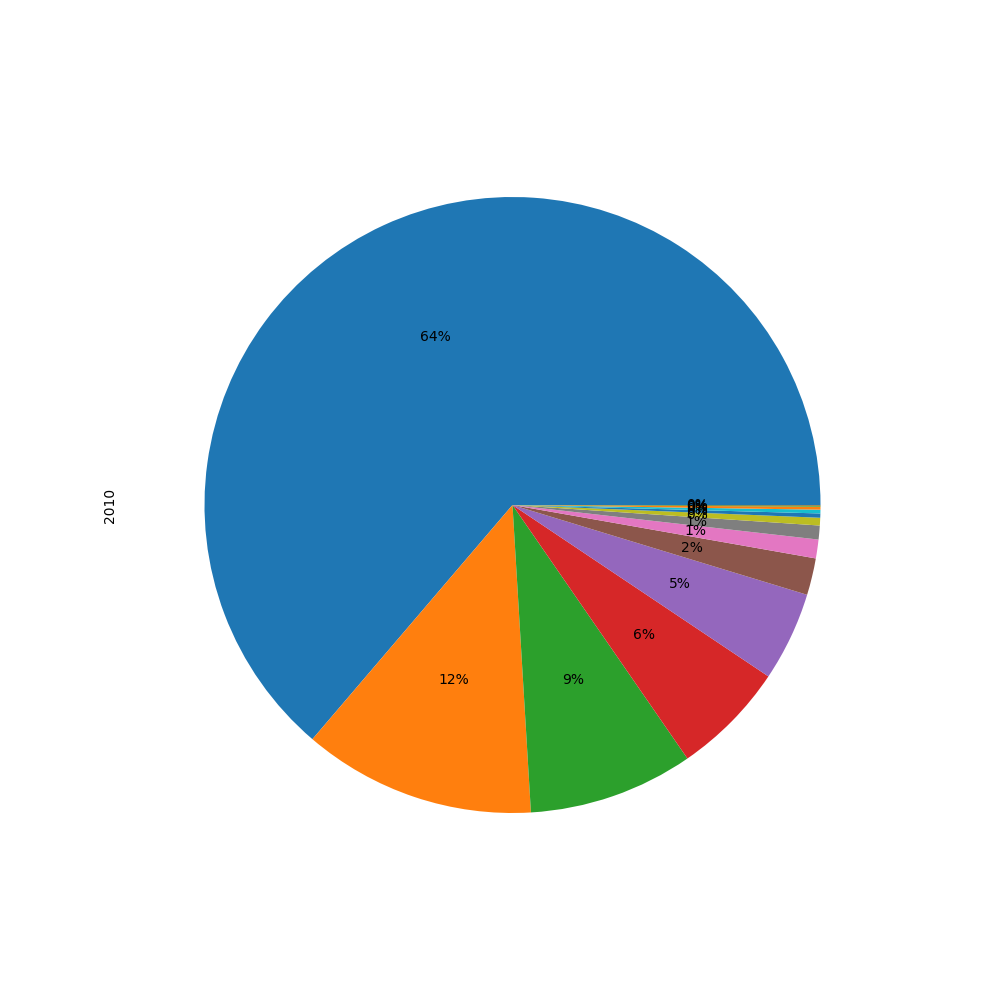
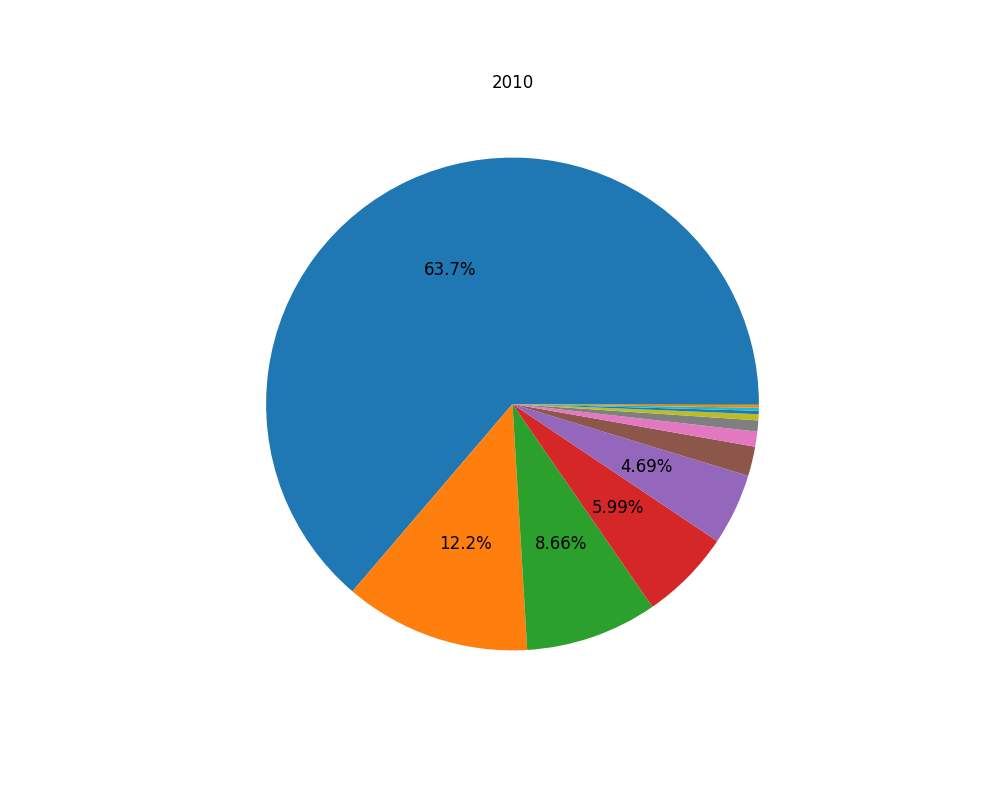
updates to pie chart, legend, updates to code

diff --git a/query_data/byCategory/all-categories/data_vis.py b/query_data/byCategory/all-categories/data_vis.py
@@ -44,6 +44,47 @@ df2 = pd.read_csv(path + "nonhispUS.csv", index_col="Year")[races]
 df1.columns = hisp # Rename columns
 df2.columns = nonhisp # Rename columns
 allCats = df1.join(df2).transpose() # Want Years as columns
+
+# PIE CHARTS
+def autopct(pct):
+    if pct > 10:
+        return f'{pct:.1f}%'
+    elif pct > 2:
+        return f'{pct:.2f}%'
+    else:
+        return ''
+
+# LEGEND
+leg = allCats.plot.pie(y=2000, figsize=(15,6))
+plt.legend(title = 'Key', bbox_to_anchor=(-0.1, 0.8))
+
+# COLOR ORDER TO MATCH LEGEND
+allCats2010 = ['tab:blue','tab:orange','tab:green','tab:red','tab:purple','tab:brown','tab:pink',
+	           'tab:grey','tab:olive','tab:blue','tab:cyan','tab:orange','tab:green','tab:red']
+allCats2020 = ['tab:blue','tab:orange','tab:red','tab:pink','tab:purple','tab:green','tab:brown',
+	           'tab:grey','tab:cyan','tab:blue','tab:olive','tab:orange','tab:green','tab:red']
+               
+# SET PLOT SIZE
+size = (10,8)
+
+# 2000
+allCats.sort_values(by=[2000], inplace=True, ascending=False) # Sort by 2020 values
+ax = allCats.plot.pie(y=2000, labels=None, figsize=size, autopct=autopct, fontsize=12, title="2000", legend=False)
+y_axis = ax.axes.get_yaxis()
+y_axis.set_visible(False) # Remove title from y-axis side of plot
+
+# 2010
+allCats.sort_values(by=[2010], inplace=True, ascending=False)
+ax = allCats.plot.pie(y=2010, labels=None, figsize=size, autopct=autopct, fontsize=12, colors= allCats2010, title="2010", legend=False)
+y_axis = ax.axes.get_yaxis()
+y_axis.set_visible(False)
+
+# 2010
+allCats.sort_values(by=[2020], inplace=True, ascending=False)
+ax = allCats.plot.pie(y=2020, labels=None, figsize=size, autopct=autopct, fontsize=12, colors= allCats2020, title="2020", legend=False)
+y_axis = ax.axes.get_yaxis()
+y_axis.set_visible(False)
+
 # RENAME COLUMNS FOR OPERATIONS
 allCats.columns = ["C2000", "C2010", "C2020"]
 # CREATE NEW COLUMNS TO SHOW CHANGE B/W CENSUSES
